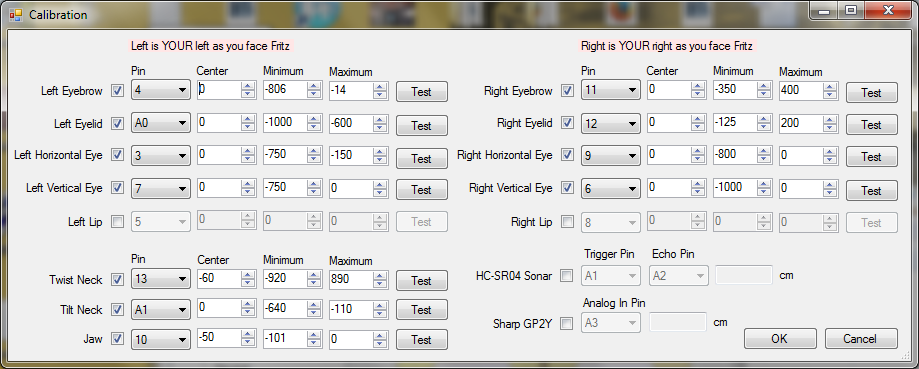
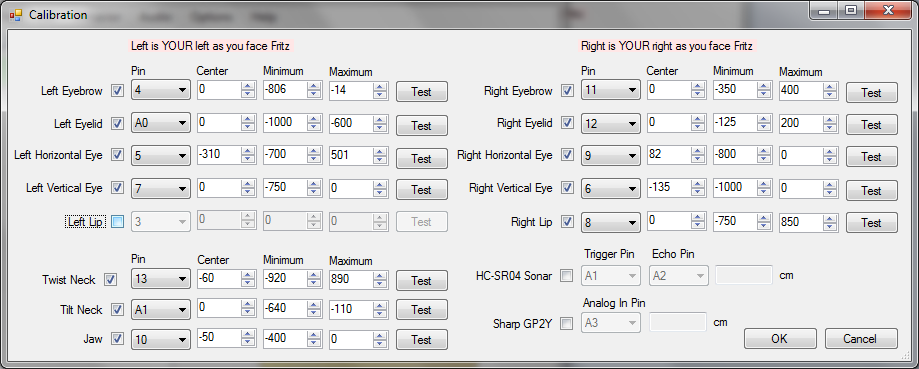
several changes: Add filter for main screen, send gesture commands to robot when they occur, fix reloading gesture combo in Facebook notifier option control, make sure program correctly exits when form is closed, fix randomization of test notifications, and update picture with robot setup

diff --git a/FritzNotifier/NotificationForm.cs b/FritzNotifier/NotificationForm.cs
@@ -34,12 +34,12 @@ namespace FritzNotifier
             LoadPlugins();
             ReadSavedOptions();
 
-            notificationToConfigureComboBox.DataSource = plugins;
             notificationToConfigureComboBox.DisplayMember = "NotificationApplication";
             notificationToConfigureComboBox.ValueMember = "NotificationApplication";
+            notificationToConfigureComboBox.DataSource = plugins;
 
-            notificationToConfigureComboBox.SelectedIndex = 0;
-            notificationToConfigureComboBox_SelectedIndexChanged(notificationToConfigureComboBox, EventArgs.Empty);
+            BindFilterCombo();
+            filterComboBox.SelectedIndex = 0;
 
             PrepareTextToSpeechAndGestures();
 
@@ -47,6 +47,18 @@ namespace FritzNotifier
 
             // temporary
             //TestFirst();
+        }
+
+        private void BindFilterCombo()
+        {
+            filterComboBox.Items.Clear();
+
+            filterComboBox.Items.Add("All (" + notifications.Count + ")");
+
+            foreach (var plugin in plugins)
+            {
+                filterComboBox.Items.Add(plugin.NotificationApplication + " (" + notifications.Count(x => x.ApplicationName == plugin.NotificationApplication).ToString() + ")");
+            }
         }
 
         private void ActivateTimer()
@@ -112,8 +124,18 @@ namespace FritzNotifier
             }
         }
 
+        bool pushingNotifications = false;
+
         internal void PushNotifications(List<Objects.Notification> newNotifications, bool clearPrevious)
         {
+            notificationsTabPage.Text = string.Format("Notifications ({0})", this.notifications.Count);
+
+            pushingNotifications = true;
+            int previouslySelectedIndex = filterComboBox.SelectedIndex;
+            BindFilterCombo();
+            filterComboBox.SelectedIndex = previouslySelectedIndex;
+            pushingNotifications = false;
+
             bool performLayout = clearPrevious;
             notificationTableLayoutPanel.SuspendLayout();
             if (clearPrevious)
@@ -121,7 +143,8 @@ namespace FritzNotifier
                 notificationTableLayoutPanel.Controls.Clear();
                 notificationTableLayoutPanel.RowStyles.Clear();
             }
-            foreach (var newNotification in newNotifications)
+            var shownNotifications = (filterComboBox.Text.StartsWith("All (")) ? newNotifications : newNotifications.Where(x => filterComboBox.Text.StartsWith(x.ApplicationName + " ("));
+            foreach (var newNotification in shownNotifications)
             {
                 notificationTableLayoutPanel.RowStyles.Insert(0, new RowStyle(SizeType.AutoSize));
                 var notificationControl = new NotificationControl();
@@ -255,8 +278,6 @@ namespace FritzNotifier
 
                     var newOption = new Objects.Option(Convert.ToInt32(optionElement.Attribute("Id").Value), gestures, numerics, active);
 
-                    // TODO: add reset stuff here
-
                     if (index == -1)
                     {
                         options.Add(newOption);
@@ -361,13 +382,19 @@ namespace FritzNotifier
         {
             if (((Fritz.EventArgs<string>)e).Value.Equals("connected"))
             {
-                connectionStatusLabel.Text = "Robot Connected";
-                connectionStatusLabel.ForeColor = Color.Green;
+                this.Invoke((MethodInvoker)delegate
+                {
+                    connectionStatusLabel.Text = "Robot Connected";
+                    connectionStatusLabel.ForeColor = Color.Green;
+                });
             }
             else
             {
-                connectionStatusLabel.Text = "Robot Disconnected";
-                connectionStatusLabel.ForeColor = Color.Red;
+                this.Invoke((MethodInvoker)delegate
+                {
+                    connectionStatusLabel.Text = "Robot Disconnected";
+                    connectionStatusLabel.ForeColor = Color.Red;
+                });
             }
 
             //if (((EventArgs<string>)e).Value.Equals("connected"))
@@ -434,20 +461,24 @@ namespace FritzNotifier
 
         void HandleGesture(Plugins.Gesture gesture)
         {
-            // TODO: turn back on once finish setting up gestures testing
-            return;
             if (gesture != 0)
             {
                 switch (gesture)
                 {
                     case Plugins.Gesture.Happy:
                         conductor.SetExpression("Happy");
+                        System.Threading.Thread.Sleep(500);
+                        conductor.SetExpression("Neutral");
                         break;
                     case Plugins.Gesture.Awkward:
                         conductor.SetExpression("Awkward");
+                        System.Threading.Thread.Sleep(500);
+                        conductor.SetExpression("Neutral");
                         break;
                     case Plugins.Gesture.Surprised:
                         conductor.SetExpression("Surprised");
+                        System.Threading.Thread.Sleep(500);
+                        conductor.SetExpression("Neutral");
                         break;
                 }
             }
@@ -560,7 +591,28 @@ namespace FritzNotifier
         {
             // save selected options for reload
             WritePluginOptions();
-            e.Cancel = false;
+            if (checkNotifications != null)
+            {
+                checkNotifications.Stop();
+                checkNotifications.Tick -= checkNotifications_Tick;
+                checkNotifications.Dispose();
+                checkNotifications = null;
+            }
+
+            if (this.childForm != null)
+            {
+                childForm.Close();
+            }
+
+            conductor.Close();
+        }
+
+        private void filterComboBox_SelectedIndexChanged(object sender, EventArgs e)
+        {
+            if (!pushingNotifications)
+            {
+                PushNotifications(this.notifications, true);
+            }
         }
     }
 }

diff --git a/FritzNotifier/NotificationForm.Designer.cs b/FritzNotifier/NotificationForm.Designer.cs
@@ -41,6 +41,8 @@
             this.editingOptionsControlHolderPanel = new System.Windows.Forms.Panel();
             this.ConfigureForLabel = new System.Windows.Forms.Label();
             this.notificationToConfigureComboBox = new System.Windows.Forms.ComboBox();
+            this.filterLabel = new System.Windows.Forms.Label();
+            this.filterComboBox = new System.Windows.Forms.ComboBox();
             quickOverviewPanel = new System.Windows.Forms.Panel();
             quickOverviewPanel.SuspendLayout();
             this.mainTabControl.SuspendLayout();
@@ -51,6 +53,8 @@
             // quickOverviewPanel
             // 
             quickOverviewPanel.CausesValidation = false;
+            quickOverviewPanel.Controls.Add(this.filterComboBox);
+            quickOverviewPanel.Controls.Add(this.filterLabel);
             quickOverviewPanel.Controls.Add(this.robotVoiceLabel);
             quickOverviewPanel.Controls.Add(this.robotVoiceComboBox);
             quickOverviewPanel.Controls.Add(this.noOptionsLabel);
@@ -187,6 +191,24 @@
             this.notificationToConfigureComboBox.TabIndex = 1;
             this.notificationToConfigureComboBox.SelectedIndexChanged += new System.EventHandler(this.notificationToConfigureComboBox_SelectedIndexChanged);
             // 
+            // filterLabel
+            // 
+            this.filterLabel.AutoSize = true;
+            this.filterLabel.Location = new System.Drawing.Point(396, 10);
+            this.filterLabel.Name = "filterLabel";
+            this.filterLabel.Size = new System.Drawing.Size(32, 13);
+            this.filterLabel.TabIndex = 5;
+            this.filterLabel.Text = "Filter:";
+            // 
+            // filterComboBox
+            // 
+            this.filterComboBox.FormattingEnabled = true;
+            this.filterComboBox.Location = new System.Drawing.Point(435, 4);
+            this.filterComboBox.Name = "filterComboBox";
+            this.filterComboBox.Size = new System.Drawing.Size(121, 21);
+            this.filterComboBox.TabIndex = 6;
+            this.filterComboBox.SelectedIndexChanged += new System.EventHandler(this.filterComboBox_SelectedIndexChanged);
+            // 
             // NotificationForm
             // 
             this.AutoScaleDimensions = new System.Drawing.SizeF(6F, 13F);
@@ -224,6 +246,8 @@
         private System.Windows.Forms.Label noOptionsLabel;
         private System.Windows.Forms.Label robotVoiceLabel;
         private System.Windows.Forms.ComboBox robotVoiceComboBox;
+        private System.Windows.Forms.Label filterLabel;
+        private System.Windows.Forms.ComboBox filterComboBox;
     }
 }
 

diff --git a/FritzNotifier/Twitter/TwitterNotifier.cs b/FritzNotifier/Twitter/TwitterNotifier.cs
@@ -169,7 +169,7 @@ namespace FritzNotifier.Twitter
                             // if enough time has passed since we last accessed this
                             if ((currentDate - option.LastAccessed).TotalMinutes > option.Numerics[0])
                             {
-                                int tweetCount = sr.Next(50);
+                                int tweetCount = sr.Next(51);
 
                                 if (tweetCount > 0)
                                 {
@@ -186,7 +186,7 @@ namespace FritzNotifier.Twitter
                             {
                                 string name = string.Empty;
 
-                                switch (sr.Next(2))
+                                switch (sr.Next(3))
                                 {
                                     case 0:
                                         name = "@coolperson1";
@@ -201,7 +201,7 @@ namespace FritzNotifier.Twitter
 
                                 string msg = string.Empty;
 
-                                switch (sr.Next(2))
+                                switch (sr.Next(3))
                                 {
                                     case 0:
                                         msg = "Hello!  How are you?";

diff --git a/FritzNotifier/Facebook/FacebookOptionsControl.cs b/FritzNotifier/Facebook/FacebookOptionsControl.cs
@@ -34,13 +34,13 @@ namespace FritzNotifier.Facebook
                         switch ((Plugins.Gesture)option.Gestures[0])
                         {
                             case Plugins.Gesture.Happy:
-                                gestureComboBox.SelectedValue = "Happy";
+                                gestureComboBox.Text = "Happy";
                                 break;
                             case Plugins.Gesture.Surprised:
-                                gestureComboBox.SelectedValue = "Surprised";
+                                gestureComboBox.Text = "Surprised";
                                 break;
                             case Plugins.Gesture.Awkward:
-                                gestureComboBox.SelectedValue = "Awkward";
+                                gestureComboBox.Text = "Awkward";
                                 break;
                         }
                         break;

diff --git a/FritzNotifier/Facebook/FacebookNotifier.cs b/FritzNotifier/Facebook/FacebookNotifier.cs
@@ -124,7 +124,7 @@ namespace FritzNotifier.Facebook
                             var unixTimestampLastAccessed = System.Convert.ToInt64((DateTime.Now.AddDays(-10) - ePoch).TotalSeconds);
                               */
 
-                            if (sr.Next(4) < 3) // 3 out of 4 will make notification
+                            if (sr.Next(5) < 3) // 3 out of 4 will make notification
                             {
                                 string emotion = "(neutral)";
 
